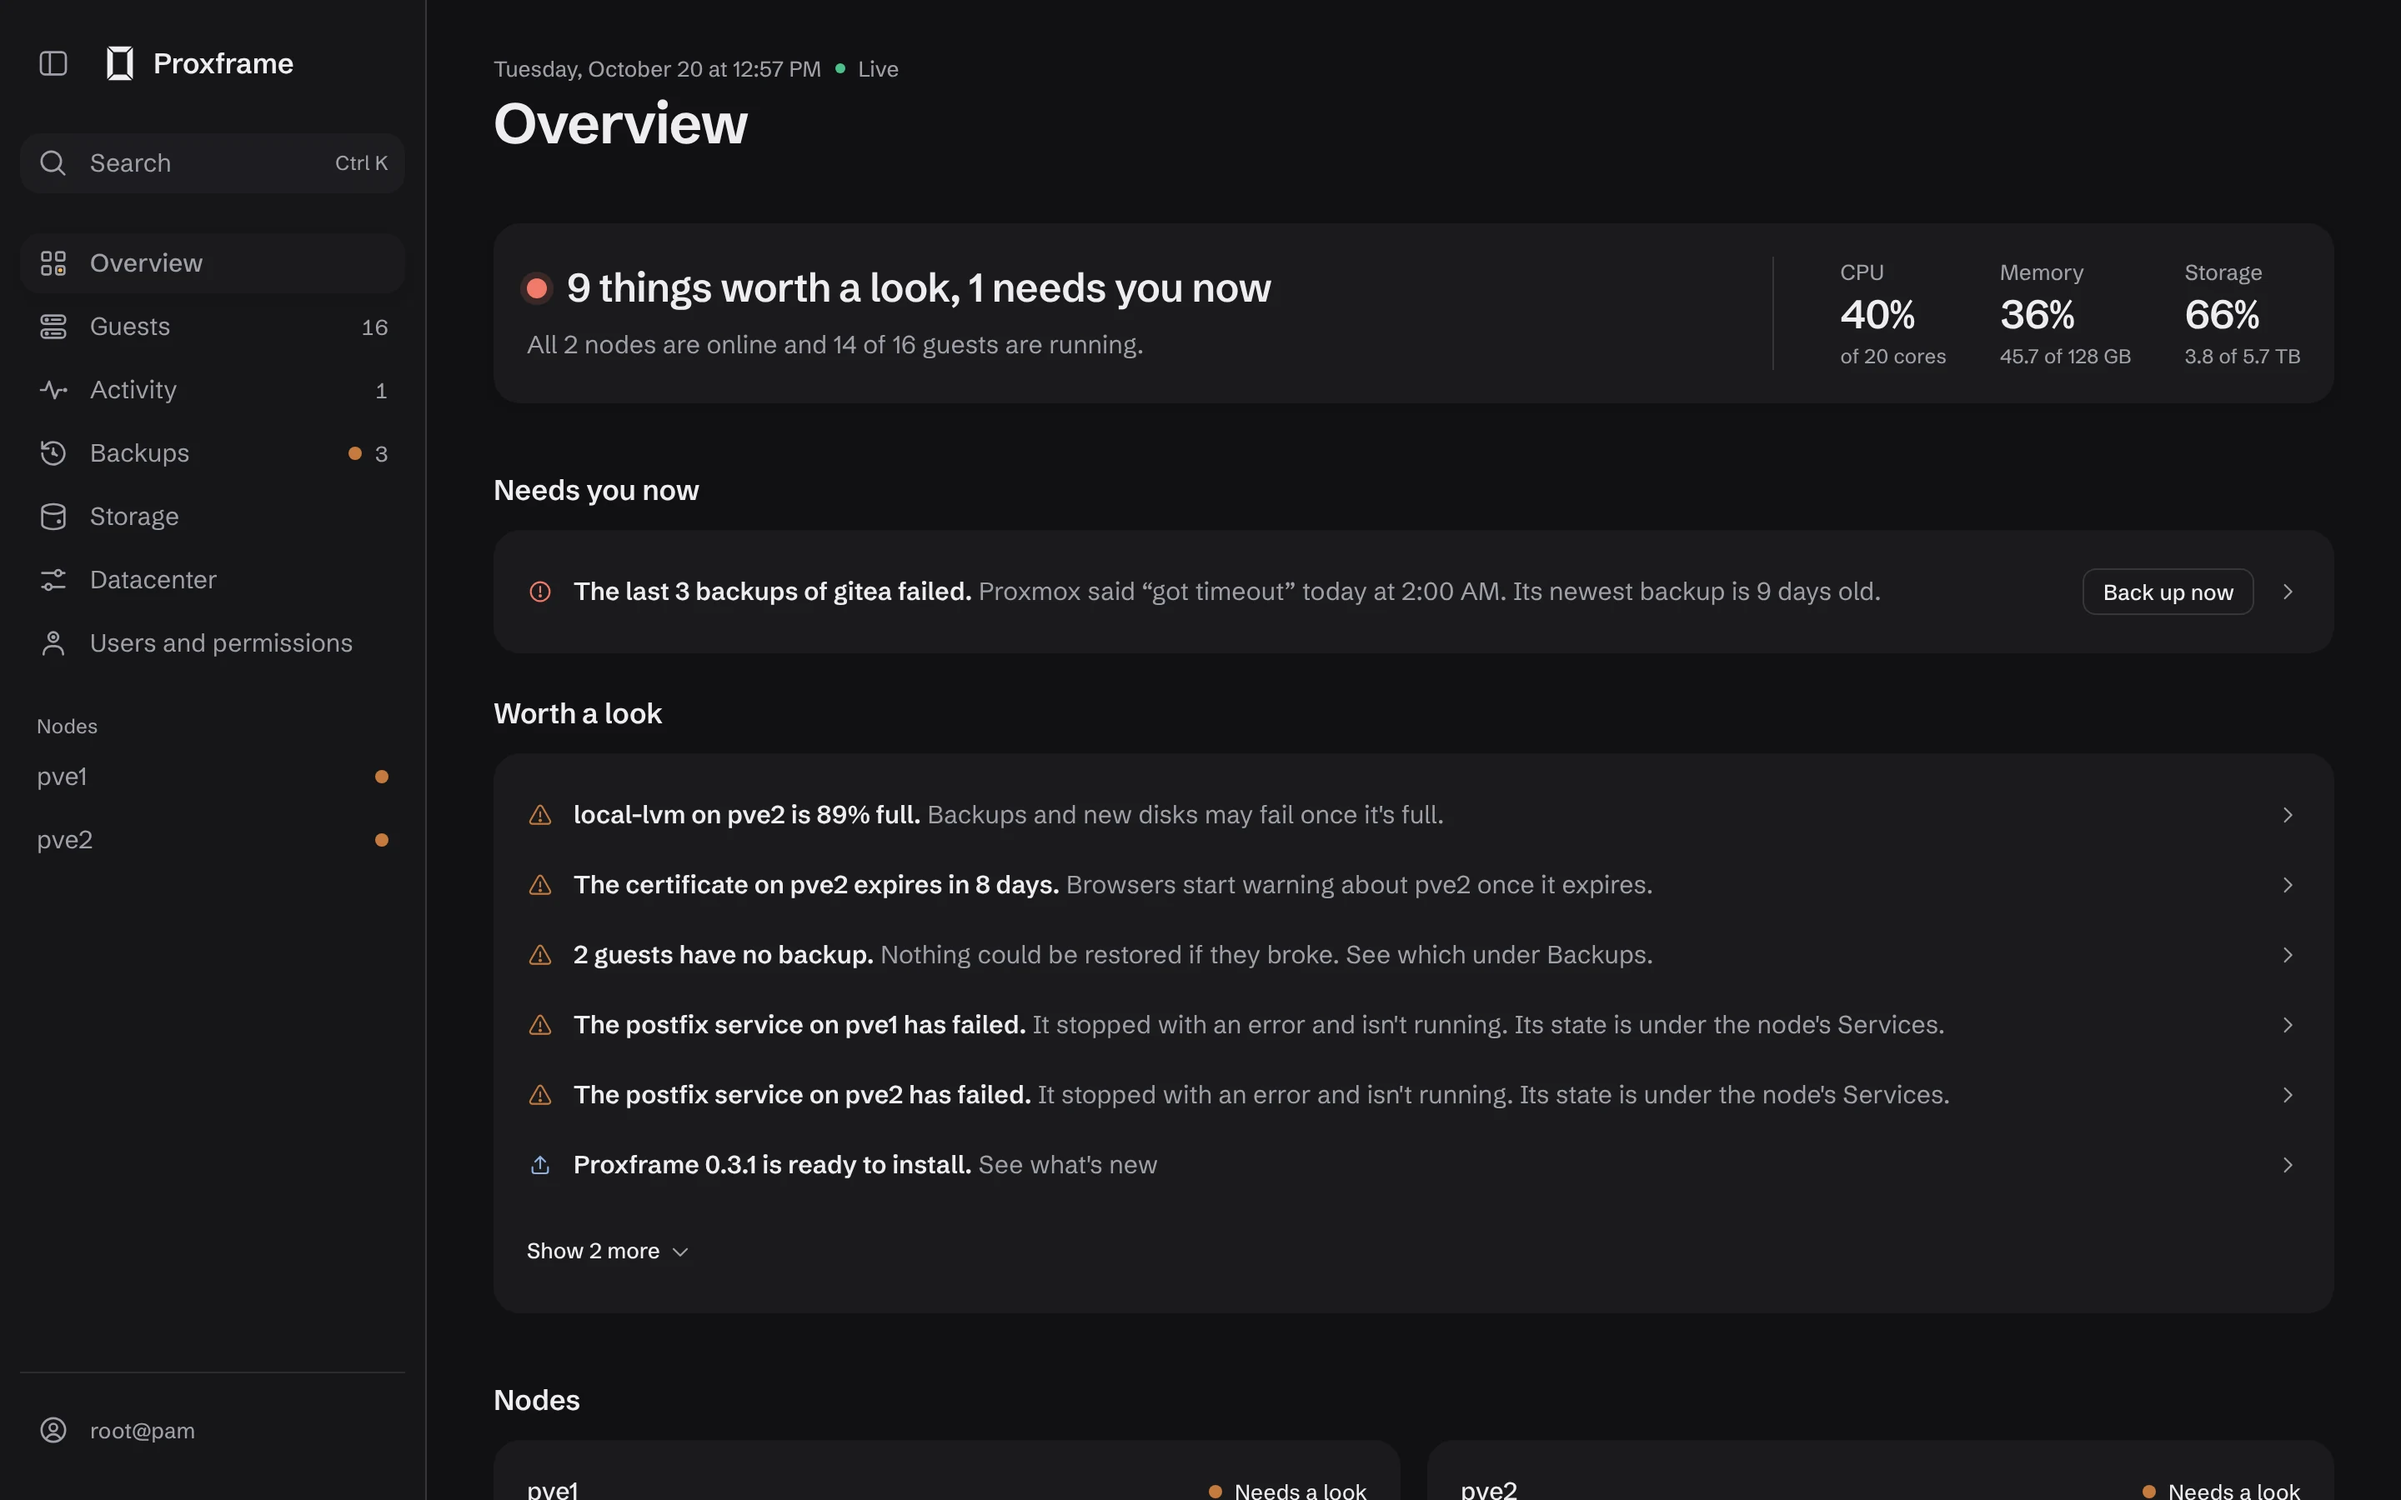
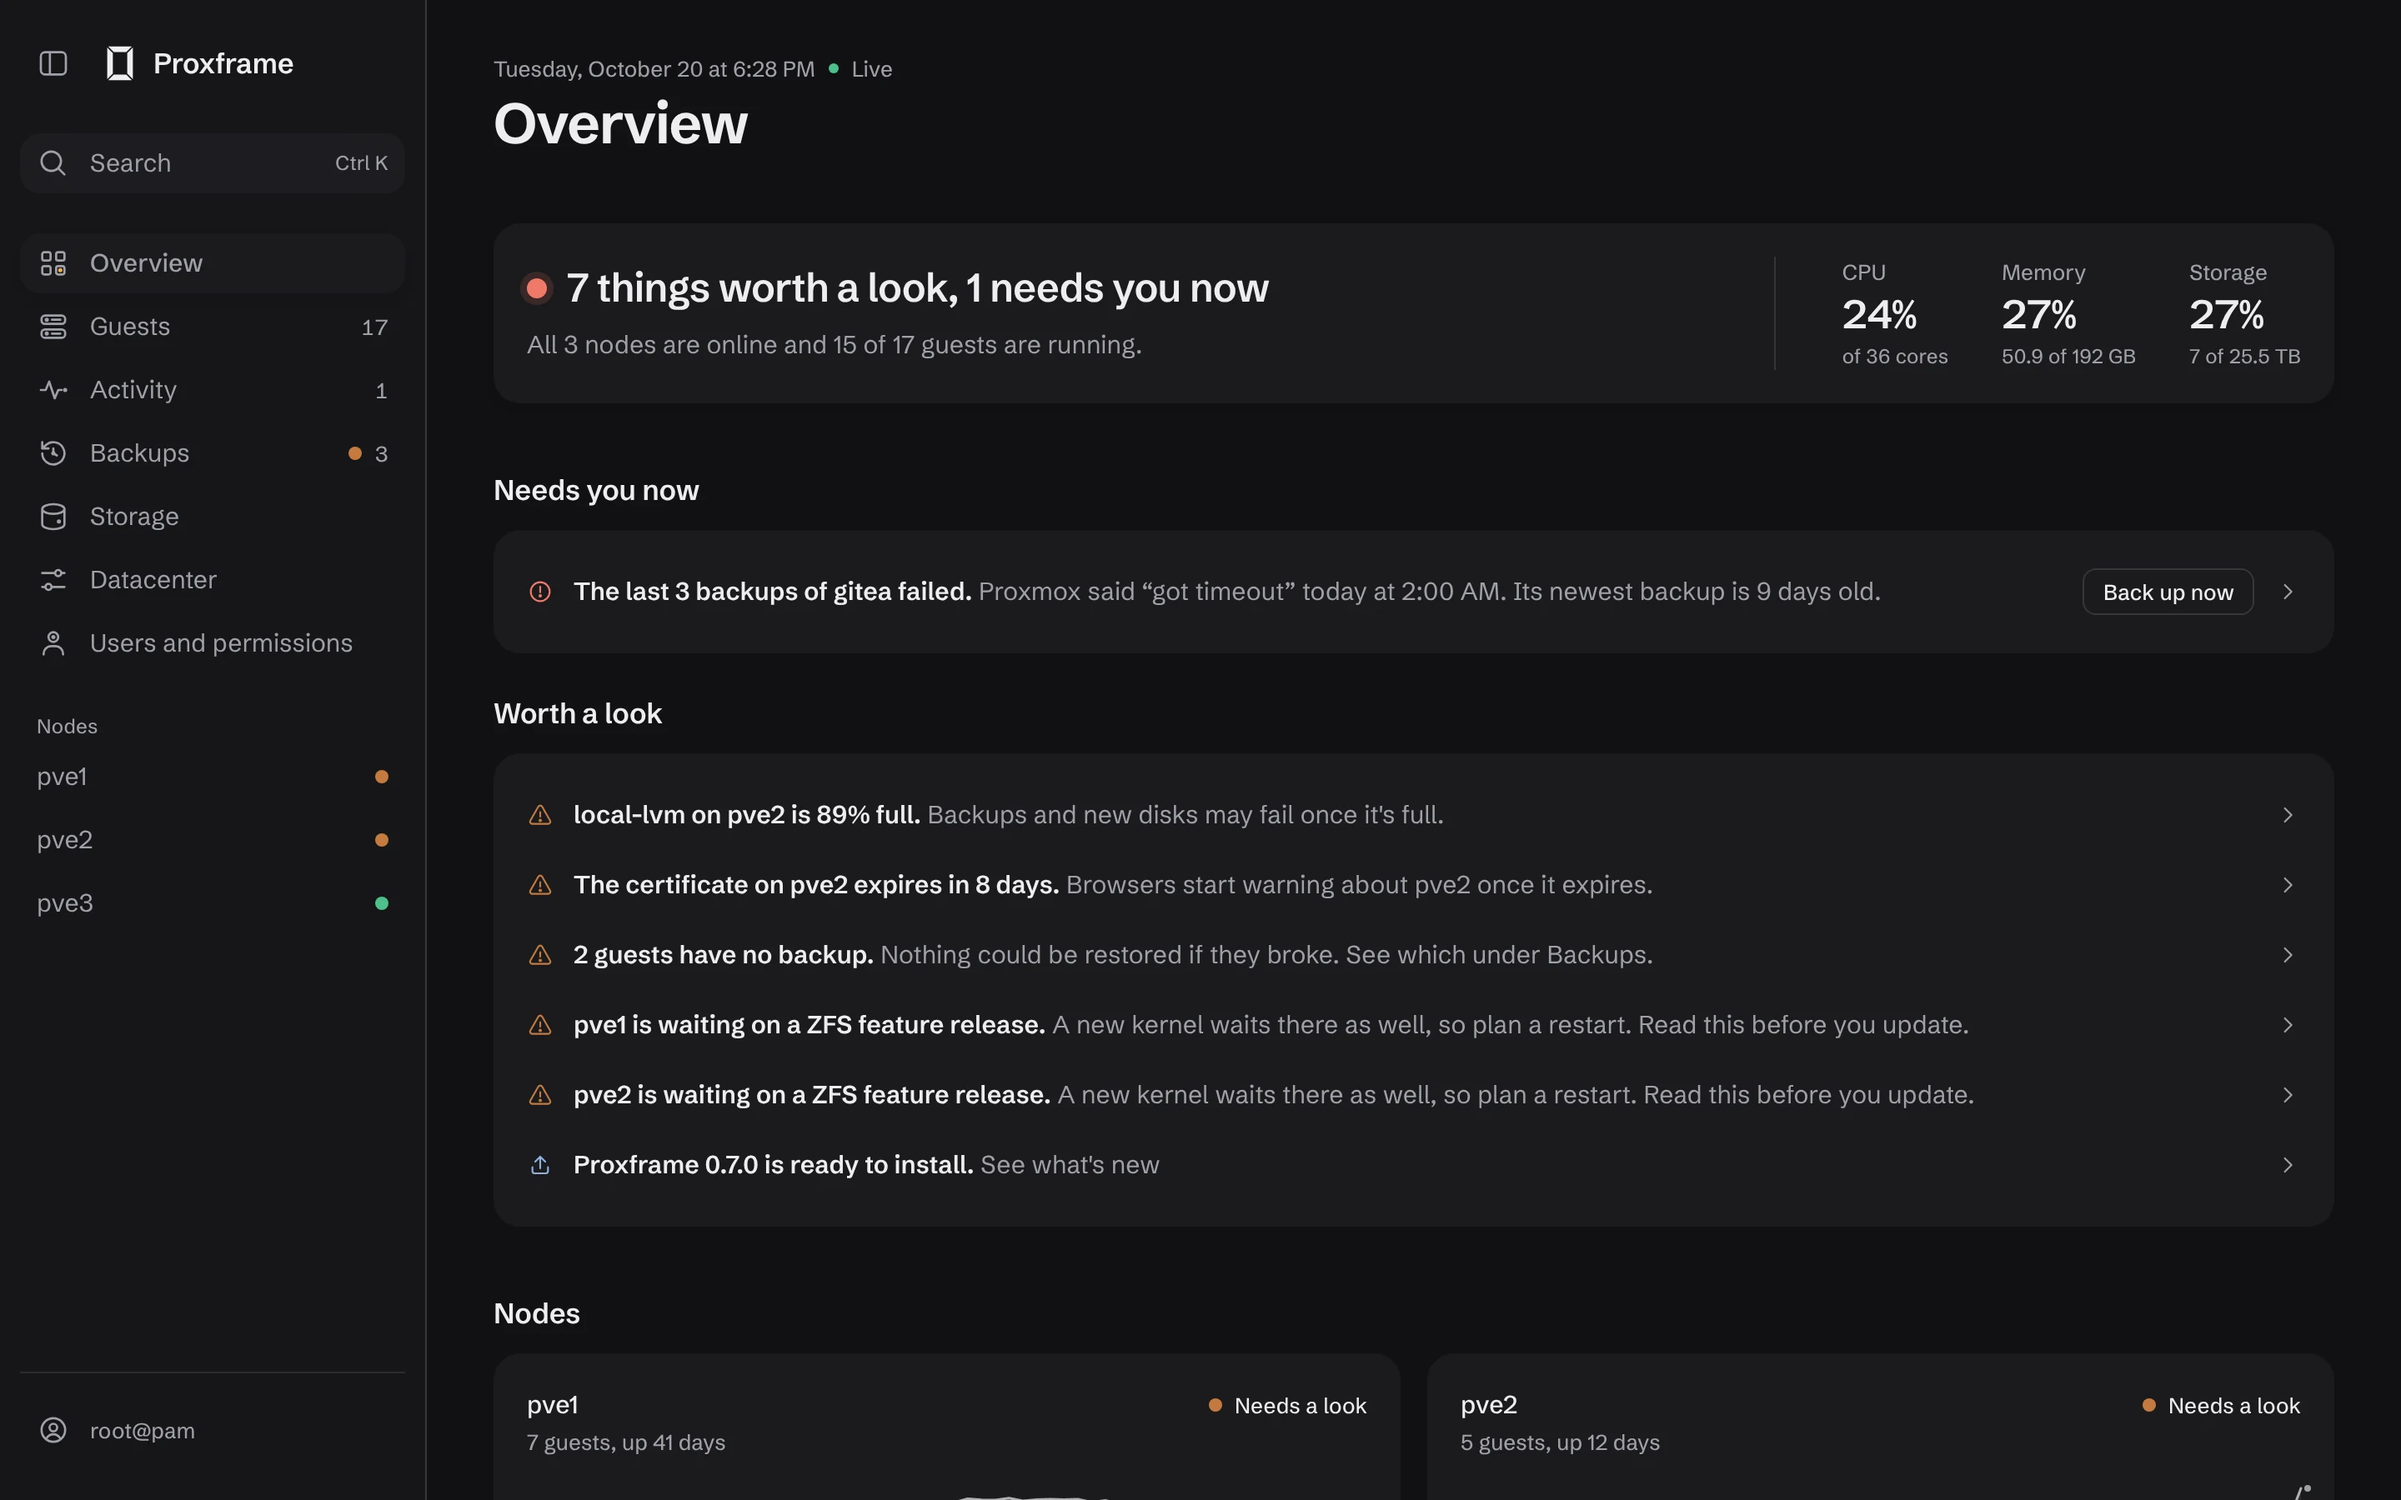
docs: retake the README screenshot from the fuller demo
Claude-Session: https://claude.ai/code/session_01SjzKmNUzkzt4tkJiZv2n7R

diff --git a/README.md b/README.md
@@ -13,7 +13,7 @@
 </p>
 <picture>
   <source media="(prefers-color-scheme: dark)" srcset="assets/readme/overview-dark.webp">
-  <img src="assets/readme/overview-light.webp" alt="The Overview page: a two-node cluster with sixteen guests, fourteen of them running, and a list of things worth a look." width="100%">
+  <img src="assets/readme/overview-light.webp" alt="The Overview page: a three-node cluster with seventeen guests, fifteen of them running, one backup that needs you now and a list of things worth a look." width="100%">
 </picture>
 
 Proxframe runs as a small service in a container on one of your nodes and talks to the normal Proxmox API. You sign in with your own Proxmox account, and the stock interface keeps working beside it.
